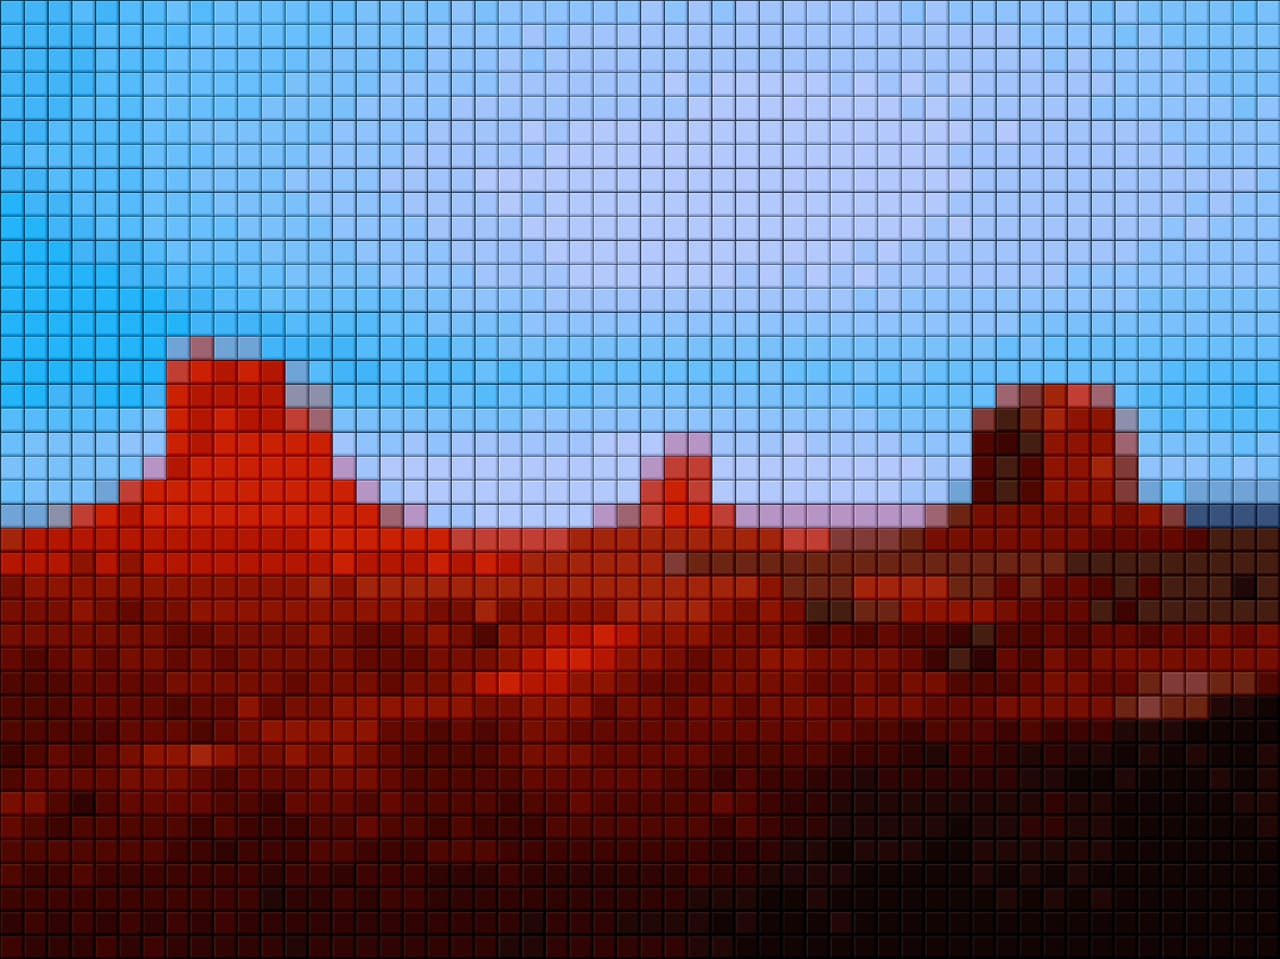
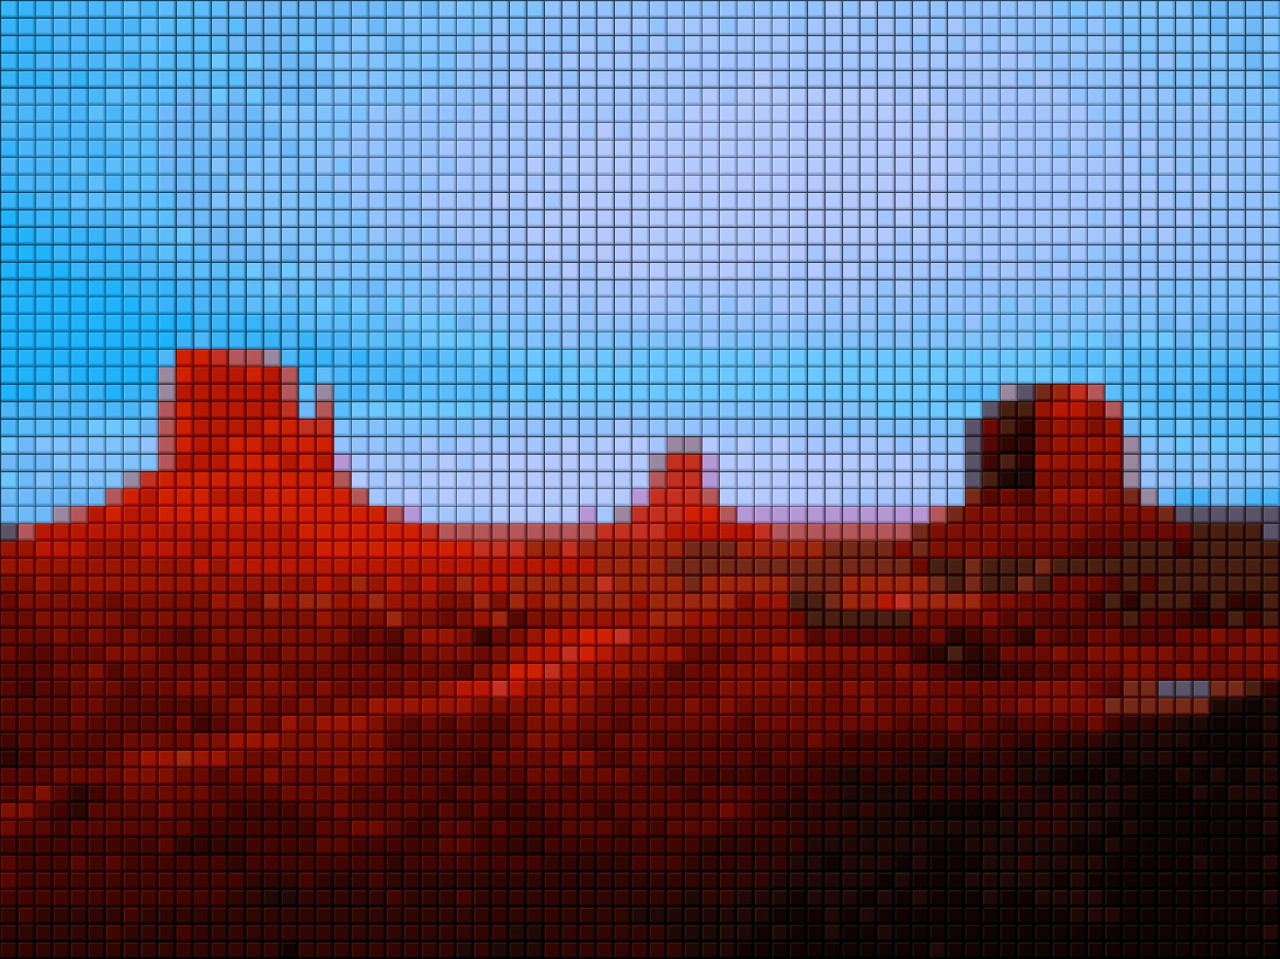
Hero: smaller pixel blocks (73x55 grid), remove hover reveal, merge settled-cell blits

diff --git a/components/Hero.tsx b/components/Hero.tsx
@@ -5,26 +5,15 @@ import { useEffect, useRef } from 'react'
 import { motion, useScroll, useTransform } from 'framer-motion'
 
 // Pixelation grid of public/hero/pixelated.jpg (2048x1535 source).
-const COLS = 54
-const ROWS = 40
+// (make-hero.py --block 28: round(2048/28) x round(1535/28))
+const COLS = 73
+const ROWS = 55
 const IMG_W = 2048
 const IMG_H = 1535
 const FOCAL_Y = 0.6 // matches .hero-img object-position: center 60%
 
 const MAX_DPR = 2 // backing-store cap
 const FLAPS = 3 // flaps per cell: pixelated -> shade -> shade -> original
-const FLAP_MS = 150 // one flap (fold + unfold); a full cell flip is FLAPS * FLAP_MS
-const RADIUS_CELLS = 5.2 // reveal radius around the (smoothed) pointer, in grid cells
-const EDGE_JITTER = 1.1 // cells: per-cell random soft edge on the radius
-const HYSTERESIS = 1.0 // cells: extra distance before a revealed cell reverts (no edge flicker)
-const WAVE_MS_PER_CELL = 16 // stagger radiating out from the cursor
-const ROW_MS = 2.2 // slight row-wise sweep on top of the radial wave
-const COL_MS = 1.4 // ...and left-to-right
-const CURSOR_HALF_LIFE = 0.07 // s: cursor glide (frame-rate independent exponential smoothing)
-const RADIUS_HALF_LIFE = 0.1 // s: reveal radius grows / shrinks smoothly
-const TAP_HOLD_MS = 900 // touch: how long a tap/long-press reveal lingers
-const LONG_PRESS_MS = 220 // touch: press-and-hold before the reveal starts
-const DRAG_PX = 8 // touch: horizontal travel that starts a reveal drag
 const RESOLVE_START = 0.2 // runway progress where the scroll-driven resolve begins
 const RESOLVE_END = 1 // ...and where every cell is the real photo
 const FLIP_SPAN = 0.32 // fraction of the resolve window a single cell's flip occupies
@@ -35,21 +24,16 @@ const MAX_DT = 0.05 // s: clamp so a stalled frame never teleports animations
 const easeInOutCubic = (t: number) => (t < 0.5 ? 4 * t * t * t : 1 - Math.pow(-2 * t + 2, 3) / 2)
 const damp = (a: number, b: number, halfLife: number, dt: number) => b + (a - b) * Math.pow(0.5, dt / halfLife)
 
-type Cell = {
-  at: 0 | 1 // settled state: 0 pixelated, 1 original
-  dir: 0 | 1 // target of the running flip
-  delay: number // ms until the flip starts (counts down while the loop runs)
-  t: number // ms into the running flip, -1 = idle
-}
-
 /**
- * Hero image. Pixelated image is the default; the original photo is revealed in a
- * blocky region around the pointer. A single canvas draws each grid cell as a
- * split-flap tile: the top half folds down, the bottom half folds into place,
- * stepping through intermediate shades with a dark seam across the middle. Fold
- * angles are eased, and the loop is driven by delta time so motion is identical at
- * 60/120/144 Hz. Both images are pre-composited once per resize onto offscreen
- * canvases at device resolution, so each frame only blits integer-aligned sub-rects.
+ * Hero image. The pixelated image is shown at the top of the page; scrolling through
+ * the runway flips grid cells to the original photo (reversible). A single canvas
+ * draws each grid cell as a split-flap tile: the top half folds down, the bottom
+ * half folds into place, stepping through intermediate shades with a dark seam across
+ * the middle. Fold angles are eased, and the loop is driven by delta time so motion is
+ * identical at 60/120/144 Hz. No pointer interaction.
+ * Both images are pre-composited once per resize onto offscreen
+ * canvases at device resolution, so each frame only blits integer-aligned sub-rects (settled cells are merged into
+ * per-row runs, so the draw-call count stays small despite the dense grid).
  * Nothing in the loop touches React state or layout.
  */
 export default function Hero() {
@@ -76,28 +60,18 @@ export default function Hero() {
     const ctx: CanvasRenderingContext2D = ctx2d
 
     const N = COLS * ROWS
-    const cells: Cell[] = Array.from({ length: N }, () => ({ at: 0, dir: 0, delay: 0, t: -1 }))
-    const noise = new Float32Array(N) // stable per-cell jitter in [-1, 1]
-    for (let k = 0; k < N; k++) noise[k] = ((k * 2654435761) % 1000) / 500 - 1
     // precomputed per-cell device-pixel rects (rebuilt on resize only)
     const rx = new Int32Array(N), ry = new Int32Array(N), rw = new Int32Array(N), rh = new Int32Array(N)
-    const shades: (string | undefined)[] = new Array(N * 2 * (FLAPS - 1))
+    const shades: (string | undefined)[] = new Array(N * (FLAPS - 1))
     let avgP: Uint8ClampedArray | null = null
     let avgO: Uint8ClampedArray | null = null
     let photoCv: HTMLCanvasElement | null = null // offscreen, cover-fitted at device res
     let pixelCv: HTMLCanvasElement | null = null
 
-    let tx = 0, ty = 0 // pointer target, CSS px relative to hero (set from events)
-    let hasPointer = false
-    let cx = 0, cy = 0 // smoothed cursor
-    let radius = 0 // smoothed reveal radius (cells)
-    let active = false
     let W = 0, H = 0, dpr = 1
     let gdx = 0, gdy = 0, gcw = 1, gch = 1 // grid geometry in device px
     let raf = 0, lastT = 0
     let visible = true, tabVisible = !document.hidden
-    let holdTimer = 0, pressTimer = 0
-    let lastClientX = 0, lastClientY = 0, pendingMove = false
     let ready = 0
     let P = progressRef.current // eased progress
     const sf = new Float32Array(N) // per-cell scroll flip progress 0..1
@@ -147,16 +121,15 @@ export default function Hero() {
     }
 
     // flat shade between the two textures for flap state `idx` (1..FLAPS-1); cached, never per frame
-    const shade = (k: number, dir: 0 | 1, idx: number) => {
-      const key = (k * 2 + dir) * (FLAPS - 1) + (idx - 1)
+    const shade = (k: number, idx: number) => {
+      const key = k * (FLAPS - 1) + (idx - 1)
       const hit = shades[key]
       if (hit) return hit
-      const from = dir === 1 ? avgP! : avgO!
-      const to = dir === 1 ? avgO! : avgP!
       const m = idx / FLAPS
       // deterministic brightness jitter so flaps read as mechanical, not a smooth ramp
-      const jit = (((k * 131 + idx * 17 + dir * 53) % 11) - 5) * 3.2
+      const jit = (((k * 131 + idx * 17 + 53) % 11) - 5) * 3.2
       const o = k * 4
+      const from = avgP!, to = avgO!
       const s = `rgb(${(from[o] + (to[o] - from[o]) * m + jit) | 0},${(from[o + 1] + (to[o + 1] - from[o + 1]) * m + jit) | 0},${(from[o + 2] + (to[o + 2] - from[o + 2]) * m + jit) | 0})`
       shades[key] = s
       return s
@@ -189,7 +162,7 @@ export default function Hero() {
     }
 
     // one half (top/bottom) of flap state `idx`, vertically scaled about the hinge
-    const half = (top: boolean, k: number, dir: 0 | 1, idx: number, sy: number, dark: number) => {
+    const half = (top: boolean, k: number, idx: number, sy: number, dark: number) => {
       if (sy <= 0.004) return
       const x = rx[k], y = ry[k], w = rw[k], h = rh[k]
       const hT = h >> 1
@@ -198,11 +171,10 @@ export default function Hero() {
       const dyy = top ? y + hT - dh : y + hT
       const sy0 = top ? y : y + hT
       if (idx === 0 || idx === FLAPS) {
-        // textures: idx 0 = old state, idx FLAPS = new state
-        const toPhoto = idx === 0 ? dir === 0 : dir === 1
-        ctx.drawImage(toPhoto ? photoCv! : pixelCv!, x, sy0, w, sh, x, dyy, w, dh)
+        // textures: idx 0 = pixelated, idx FLAPS = photo
+        ctx.drawImage(idx === 0 ? pixelCv! : photoCv!, x, sy0, w, sh, x, dyy, w, dh)
       } else {
-        ctx.fillStyle = shade(k, dir, idx)
+        ctx.fillStyle = shade(k, idx)
         ctx.fillRect(x, dyy, w, dh)
       }
       if (dark > 0.01) {
@@ -211,22 +183,22 @@ export default function Hero() {
       }
     }
 
-    // split-flap cell k at flap position f (0..FLAPS), flipping toward `dir`
-    function flip(k: number, dir: 0 | 1, f: number) {
-        const idx = Math.floor(f)
-        const e = easeInOutCubic(f - idx) // eased fold angle: theta = PI * e
-        const cos = Math.cos(Math.PI * e)
-        // static halves behind the flap: new top, old bottom
-        half(true, k, dir, idx + 1, 1, 0)
-        half(false, k, dir, idx, 1, 0)
-        if (e < 0.5) half(true, k, dir, idx, cos, 0.3 * Math.sin(Math.PI * e)) // old top falls
-        else half(false, k, dir, idx + 1, -cos, 0.3 * Math.sin(Math.PI * e)) // new bottom drops in
-        const ym = ry[k] + (rh[k] >> 1)
-        ctx.fillStyle = 'rgba(8,4,2,0.55)'
-        ctx.fillRect(rx[k], ym - 1, rw[k], Math.max(1, Math.round(dpr * 0.5)))
-        ctx.fillStyle = 'rgba(255,255,255,0.08)'
-        ctx.fillRect(rx[k], ym, rw[k], Math.max(1, Math.round(dpr * 0.5)))
-    }
+    // split-flap cell k at flap position f (0..FLAPS), pixelated -> photo
+  function flip(k: number, f: number) {
+    const idx = Math.floor(f)
+      const e = easeInOutCubic(f - idx) // eased fold angle: theta = PI * e
+      const cos = Math.cos(Math.PI * e)
+      // static halves behind the flap: new top, old bottom
+      half(true, k, idx + 1, 1, 0)
+      half(false, k, idx, 1, 0)
+      if (e < 0.5) half(true, k, idx, cos, 0.3 * Math.sin(Math.PI * e)) // old top falls
+      else half(false, k, idx + 1, -cos, 0.3 * Math.sin(Math.PI * e)) // new bottom drops in
+      const ym = ry[k] + (rh[k] >> 1)
+      ctx.fillStyle = 'rgba(8,4,2,0.55)'
+      ctx.fillRect(rx[k], ym - 1, rw[k], Math.max(1, Math.round(dpr * 0.5)))
+      ctx.fillStyle = 'rgba(255,255,255,0.08)'
+      ctx.fillRect(rx[k], ym, rw[k], Math.max(1, Math.round(dpr * 0.5)))
+  }
 
     function draw() {
       ctx.clearRect(0, 0, cv.width, cv.height)
@@ -236,22 +208,24 @@ export default function Hero() {
         ctx.drawImage(pixelCv, 0, 0)
         if (P > 0.001) { ctx.globalAlpha = Math.min(1, P); ctx.drawImage(photoCv, 0, 0); ctx.globalAlpha = 1 }
       }
-      // 1) settled original cells: straight 1:1 blits
-      for (let k = 0; k < N; k++) {
-        const c = cells[k]
-        if (!reduced && sf[k] >= 1) ctx.drawImage(photoCv, rx[k], ry[k], rw[k], rh[k], rx[k], ry[k], rw[k], rh[k])
-        else if (c.at === 1 && c.t < 0) ctx.drawImage(photoCv, rx[k], ry[k], rw[k], rh[k], rx[k], ry[k], rw[k], rh[k])
-      }
-      // 2) scroll-driven flips (deterministic from progress; hover flips take precedence on their cell)
-      if (!reduced) for (let k = 0; k < N; k++) {
-        const f = sf[k]
-        if (f > 0 && f < 1 && cells[k].t < 0 && cells[k].at === 0) flip(k, 1, Math.min(FLAPS - 1e-6, f * FLAPS))
-      }
-      // 3) hover flips
-      for (let k = 0; k < N; k++) {
-        const c = cells[k]
-        if (c.t < 0 || c.delay > 0) continue
-        flip(k, c.dir, Math.min(FLAPS - 1e-6, (c.t / (FLAPS * FLAP_MS)) * FLAPS))
+      if (!reduced) {
+        // 1) settled cells: merge horizontal runs into one 1:1 blit each
+        for (let j = 0; j < ROWS; j++) {
+          let i = 0
+          while (i < COLS) {
+            if (sf[j * COLS + i] < 1) { i++; continue }
+            const a = j * COLS + i
+            while (i < COLS && sf[j * COLS + i] >= 1) i++
+            const b = j * COLS + i - 1
+            const x = rx[a], y = ry[a], w = rx[b] + rw[b] - x, h = rh[a] > rh[b] ? rh[a] : rh[b]
+            ctx.drawImage(photoCv, x, y, w, h, x, y, w, h)
+          }
+        }
+        // 2) in-flight cells, deterministic from scroll progress
+        for (let k = 0; k < N; k++) {
+          const f = sf[k]
+          if (f > 0 && f < 1) flip(k, Math.min(FLAPS - 1e-6, f * FLAPS))
+        }
       }
     }
 
@@ -274,19 +248,6 @@ export default function Hero() {
       if (!running()) { lastT = 0; return }
       const dt = lastT ? Math.min(MAX_DT, (t - lastT) / 1000) : 1 / 60
       lastT = t
-      const dtMs = dt * 1000
-
-      if (pendingMove) {
-        const r = el.getBoundingClientRect() // single layout read per frame
-        tx = lastClientX - r.left; ty = lastClientY - r.top
-        pendingMove = false
-        if (!hasPointer) { cx = tx; cy = ty; hasPointer = true }
-      }
-      if (reduced) { cx = tx; cy = ty }
-      else { cx = damp(cx, tx, CURSOR_HALF_LIFE, dt); cy = damp(cy, ty, CURSOR_HALF_LIFE, dt) }
-      const rTarget = active ? RADIUS_CELLS : 0
-      radius = reduced ? rTarget : damp(radius, rTarget, RADIUS_HALF_LIFE, dt)
-      if (Math.abs(radius - rTarget) < 0.01) radius = rTarget
 
       // scroll progress: eased follow of the target, then per-cell flip progress
       const pT = progressRef.current
@@ -297,96 +258,14 @@ export default function Hero() {
         const t0 = thr[k] * (1 - FLIP_SPAN)
         sf[k] = Math.min(1, Math.max(0, (rp - t0) / FLIP_SPAN))
       }
-      const ccx = (cx * dpr - gdx) / gcw, ccy = (cy * dpr - gdy) / gch
-      const ar = gch / gcw
-      let busy = false
-      for (let j = 0; j < ROWS; j++) {
-        for (let i = 0; i < COLS; i++) {
-          const k = j * COLS + i
-          const c = cells[k]
-          if (!reduced && sf[k] >= 1) { c.at = 0; c.t = -1; c.delay = 0; continue } // fully resolved: hover is moot
-          const ddx = i + 0.5 - ccx, ddy = (j + 0.5 - ccy) * ar
-          const d = Math.sqrt(ddx * ddx + ddy * ddy)
-          // soft edge: per-cell jitter on the radius; hysteresis on the way out
-          const edge = radius + noise[k] * EDGE_JITTER * (radius > 0 ? 1 : 0)
-          const inside = radius > 0.05 && d <= edge
-          const outside = d > edge + HYSTERESIS || radius <= 0.05
-          if (c.t < 0) {
-            const want = inside ? 1 : outside ? 0 : c.at
-            if (c.at !== want) {
-              c.dir = want as 0 | 1
-              if (reduced) c.at = c.dir
-              else { c.t = 0; c.delay = d * WAVE_MS_PER_CELL + j * ROW_MS + i * COL_MS }
-            }
-          } else if (c.delay > 0 && ((c.dir === 1 && outside) || (c.dir === 0 && inside))) {
-            c.t = -1; c.delay = 0 // still waiting to flip the other way: cancel
-          }
-          if (c.t >= 0) {
-            busy = true
-            if (c.delay > 0) c.delay -= dtMs
-            else {
-              c.t += dtMs
-              if (c.t >= FLAPS * FLAP_MS) { c.at = c.dir; c.t = -1; c.delay = 0 }
-            }
-          }
-        }
-      }
       draw()
-      const settling = Math.abs(cx - tx) > 0.3 || Math.abs(cy - ty) > 0.3
-      const scrolling = P !== pT
-      if (busy || settling || scrolling || radius !== rTarget) raf = requestAnimationFrame(step)
+      if (P !== pT) raf = requestAnimationFrame(step)
       else lastT = 0
     }
 
     function kick() {
       if (!raf && running() && ready >= 2) raf = requestAnimationFrame(step)
     }
-
-    const setTarget = (e: PointerEvent) => {
-      lastClientX = e.clientX; lastClientY = e.clientY; pendingMove = true
-      window.clearTimeout(holdTimer)
-      active = true
-      kick()
-    }
-    const leave = () => { active = false; kick() }
-    const lingerThenLeave = () => {
-      window.clearTimeout(holdTimer)
-      holdTimer = window.setTimeout(leave, TAP_HOLD_MS)
-    }
-
-    // Touch: the hero uses touch-action: pan-y, so vertical drags scroll the page (the browser
-    // then fires pointercancel). Reveal only on tap, long-press, or a horizontal-dominant drag.
-    let sx = 0, sy = 0, dragging = false
-    const onDown = (e: PointerEvent) => {
-      if (e.pointerType !== 'touch') { setTarget(e); return }
-      sx = e.clientX; sy = e.clientY; dragging = false
-      lastClientX = e.clientX; lastClientY = e.clientY
-      window.clearTimeout(pressTimer)
-      pressTimer = window.setTimeout(() => { dragging = true; pendingMove = true; active = true; window.clearTimeout(holdTimer); kick() }, LONG_PRESS_MS)
-    }
-    const onMove = (e: PointerEvent) => {
-      if (e.pointerType !== 'touch') { setTarget(e); return }
-      lastClientX = e.clientX; lastClientY = e.clientY
-      if (!dragging) {
-        const ax = Math.abs(e.clientX - sx), ay = Math.abs(e.clientY - sy)
-        if (ax > DRAG_PX && ax > ay) { dragging = true; window.clearTimeout(pressTimer); setTarget(e) }
-        return
-      }
-      setTarget(e)
-    }
-    const onUp = (e: PointerEvent) => {
-      if (e.pointerType !== 'touch') return
-      window.clearTimeout(pressTimer)
-      if (!dragging) setTarget(e) // quick tap: reveal here
-      dragging = false
-      lingerThenLeave()
-    }
-    const onCancel = (e: PointerEvent) => {
-      window.clearTimeout(pressTimer)
-      dragging = false
-      if (e.pointerType === 'touch') lingerThenLeave(); else leave()
-    }
-    const onLeave = (e: PointerEvent) => { if (e.pointerType !== 'touch') leave() }
 
     const onVis = () => { tabVisible = !document.hidden; if (tabVisible) kick(); else { cancelAnimationFrame(raf); raf = 0; lastT = 0 } }
     const io = new IntersectionObserver(([en]) => {
@@ -395,12 +274,6 @@ export default function Hero() {
     }, { rootMargin: '50px' })
     io.observe(el)
 
-    el.addEventListener('pointerenter', onMove, { passive: true })
-    el.addEventListener('pointermove', onMove, { passive: true })
-    el.addEventListener('pointerdown', onDown, { passive: true })
-    el.addEventListener('pointerleave', onLeave, { passive: true })
-    el.addEventListener('pointercancel', onCancel, { passive: true })
-    el.addEventListener('pointerup', onUp, { passive: true })
     document.addEventListener('visibilitychange', onVis)
     mq.addEventListener('change', onMq)
     const ro = new ResizeObserver(resize)
@@ -411,19 +284,11 @@ export default function Hero() {
     return () => {
       kickRef.current = () => {}
       cancelAnimationFrame(raf)
-      window.clearTimeout(holdTimer)
-      window.clearTimeout(pressTimer)
       window.removeEventListener('load', startLoad)
       ro.disconnect()
       io.disconnect()
       document.removeEventListener('visibilitychange', onVis)
       mq.removeEventListener('change', onMq)
-      el.removeEventListener('pointerenter', onMove)
-      el.removeEventListener('pointermove', onMove)
-      el.removeEventListener('pointerdown', onDown)
-      el.removeEventListener('pointerleave', onLeave)
-      el.removeEventListener('pointercancel', onCancel)
-      el.removeEventListener('pointerup', onUp)
     }
   }, [])
 

diff --git a/app/globals.css b/app/globals.css
@@ -654,7 +654,7 @@ body {
   height: 100svh; /* small viewport: stays put when the iOS/Android URL bar collapses */
   min-height: 420px;
   overflow: hidden;
-  touch-action: pan-y; /* vertical scroll works; horizontal drags reveal */
+  touch-action: pan-y; /* vertical scroll only */
 }
 
 .hero-stage {
